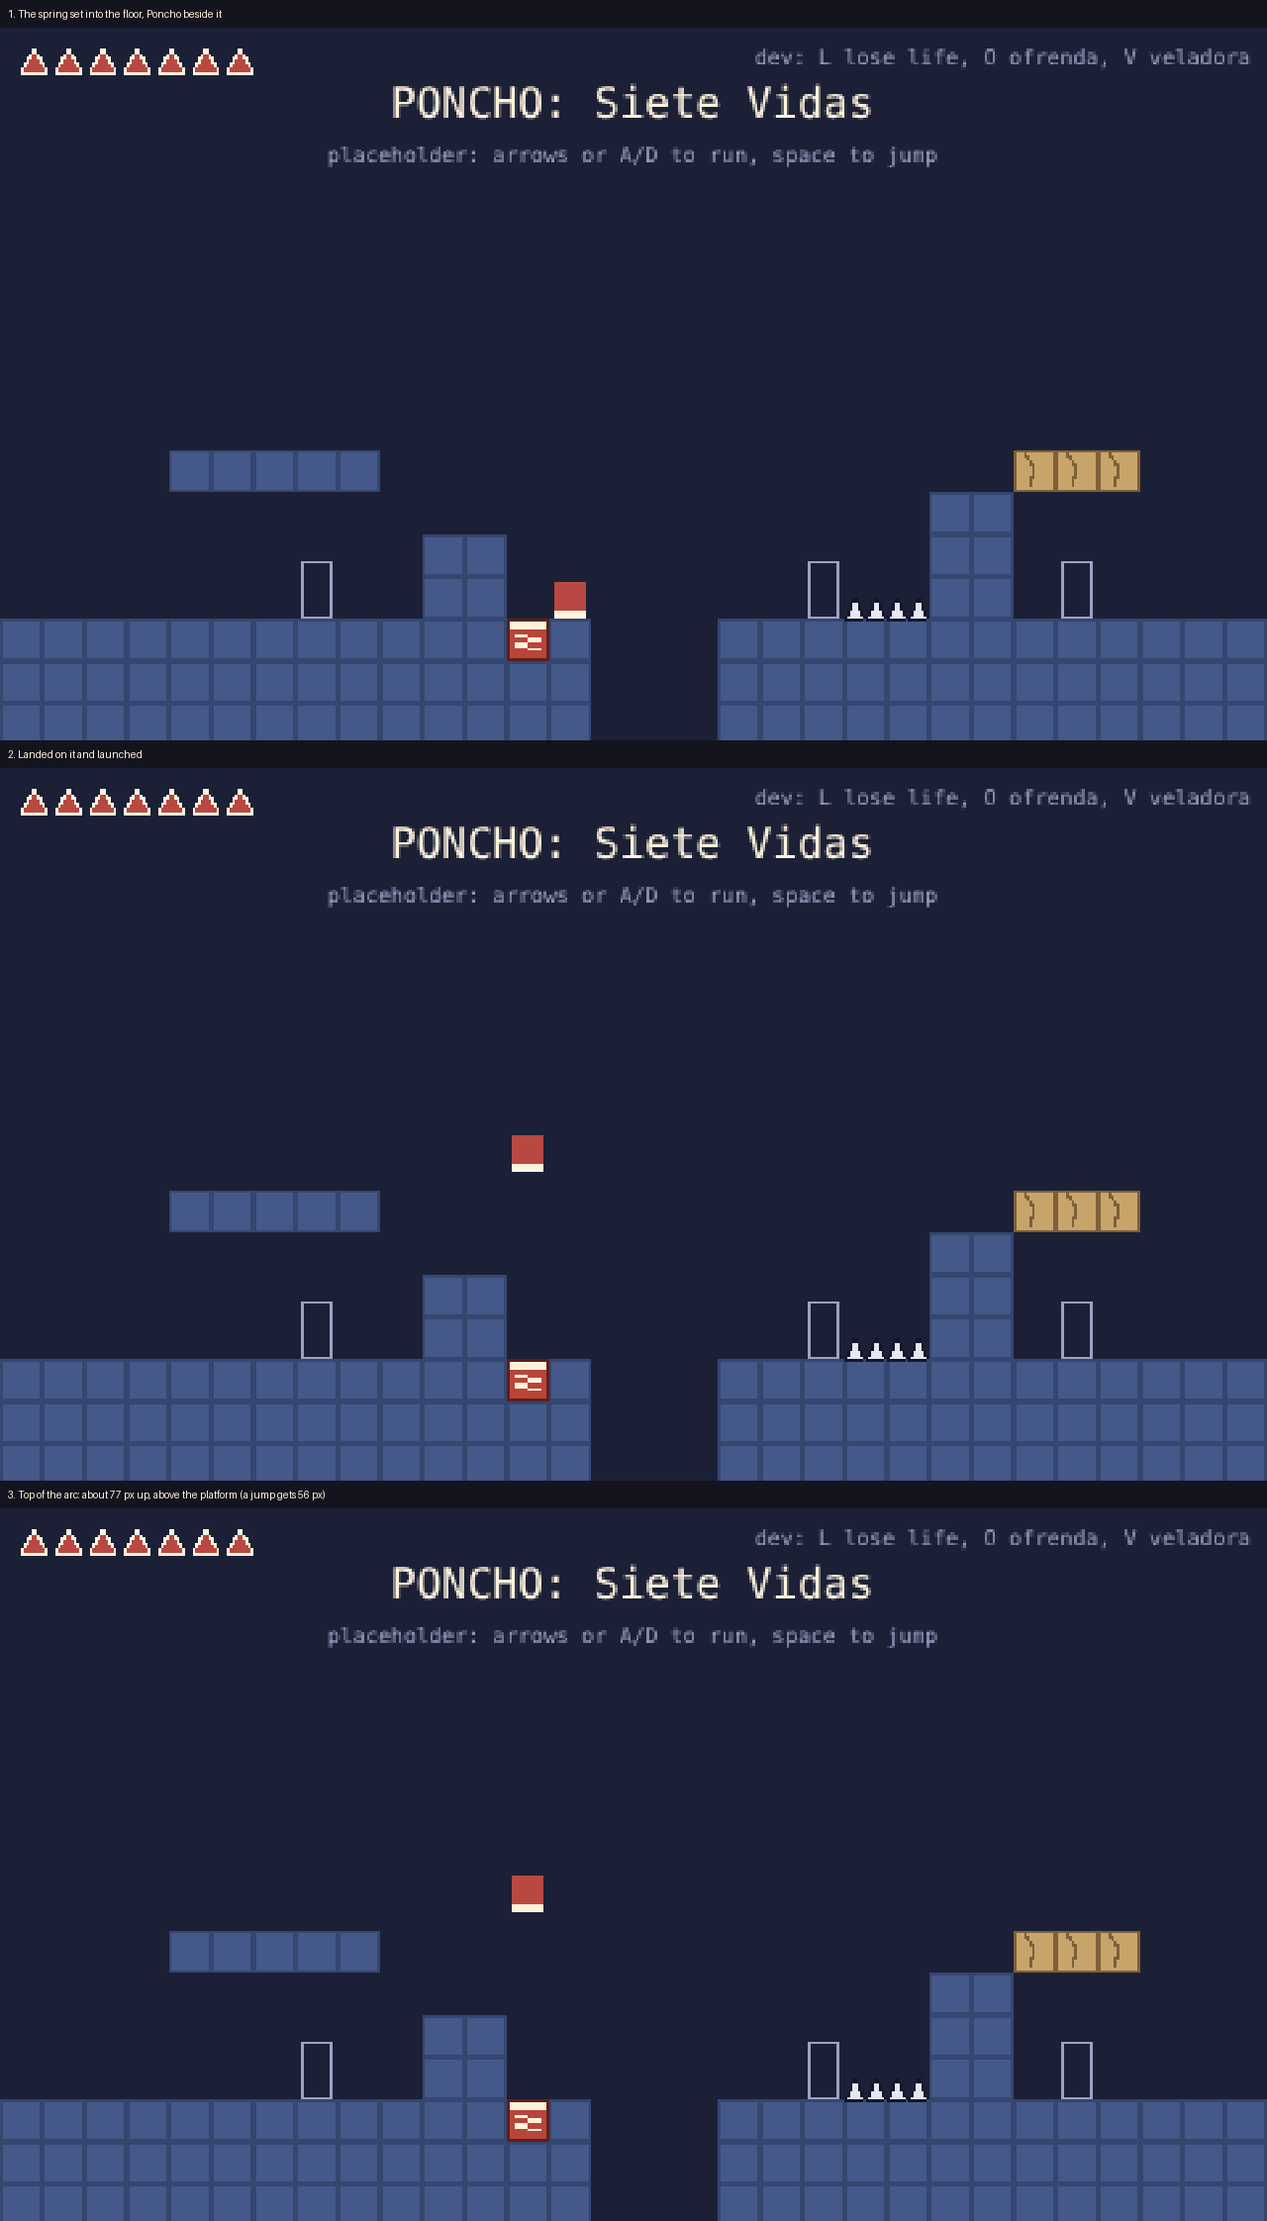
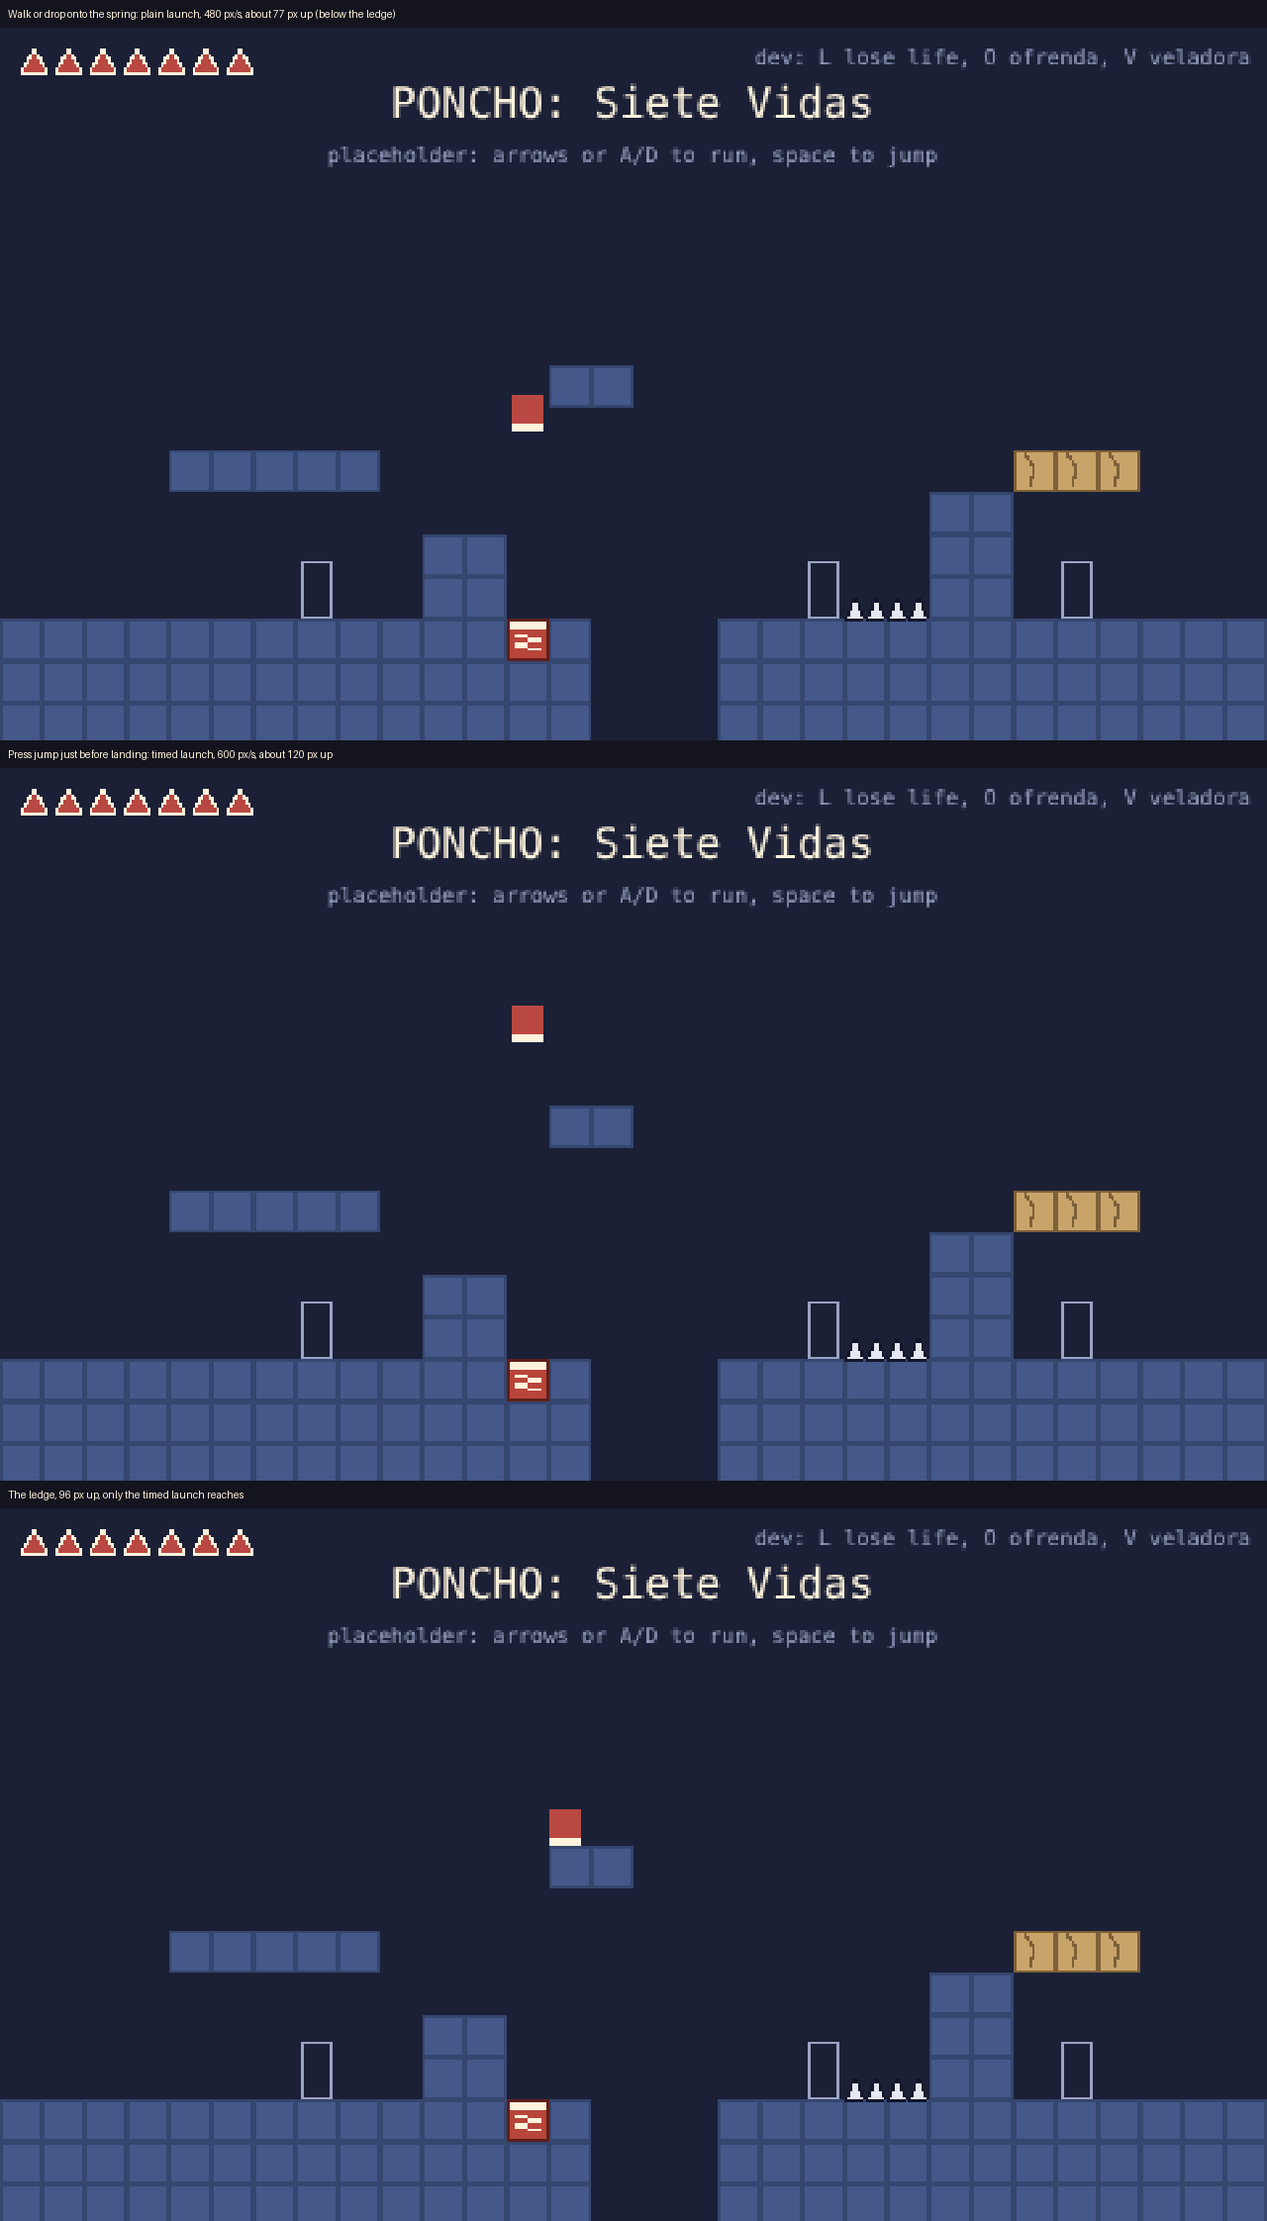
feat(GDD-WLD-05): a timed press before landing gives the spring a higher launch
Claude-Session: https://claude.ai/code/session_01UR7WLYurCgCbzU9XqgV3bo

diff --git a/src/sim/spring.test.ts b/src/sim/spring.test.ts
@@ -4,6 +4,7 @@ import { spawn, step, type PlayerInput, type PlayerState } from './movement';
 import { bounce, withSprings, type Spring } from './spring';
 import { startRun, stepRun, type Level, type RunState } from './run';
 import { parseTiles } from './tilemap';
+import { SANDBOX_CRUMBLES, SANDBOX_OFRENDAS, SANDBOX_ROWS, SANDBOX_SPAWN, SANDBOX_SPIKES, SANDBOX_SPRINGS } from '../levels/sandbox';
 
 const idle: PlayerInput = { move: 0, jumpHeld: false };
 const right: PlayerInput = { move: 1, jumpHeld: false };
@@ -23,6 +24,8 @@ function play(r: RunState, steps: number, input: (i: number) => PlayerInput = ()
   }
   return { states, rise: 8 * TILE - Math.min(...states.map((s) => s.player.y)) };
 }
+/** Poncho dropped onto the spring from 30 px up. */
+const drop = (): RunState => ({ ...startRun(level), player: { ...spawn(56, 8 * TILE - 30), grounded: false } });
 const launched = (states: RunState[]) => states.find((s) => s.player.vy === -SPRING.velocity);
 
 describe('GDD-WLD-05 spring', () => {
@@ -77,14 +80,49 @@ describe('GDD-WLD-05 spring', () => {
     expect(released.rise).toBeCloseTo(kept.rise, 5);
   });
 
-  it('holding jump, or pressing it just before landing, does not change the height', () => {
+  it('holding jump does not change the height: only a press counts', () => {
     const plain = play({ ...startRun(level), player: onSpring }, 120).rise;
     const held = play({ ...startRun(level), player: onSpring }, 120, () => ({ move: 0, jumpHeld: true })).rise;
     expect(held).toBeCloseTo(plain, 5);
-    // Dropped from 10 px up with jump pressed 2 steps before the landing, and held.
-    const dropped = play({ ...startRun(level), player: { ...spawn(56, 8 * TILE - 10), grounded: false } }, 120, (i) => ({ move: 0, jumpHeld: i >= 1 })).rise;
-    expect(dropped).toBeGreaterThan(75);
-    expect(dropped).toBeLessThan(90);
+  });
+
+  it('walking onto it gives the plain 480 launch', () => {
+    const { states } = play(startRun(level), 60, () => ({ move: 1, jumpHeld: false }));
+    expect(launched(states)).toBeDefined();
+  });
+
+  describe('a jump pressed just before landing (a timed press)', () => {
+    // `landing` is the step the launch happens on when dropped from 30 px up, found without any press.
+    const landing = play(drop(), 60).states.findIndex((s) => s.player.vy < -400);
+    /** The launch speed with one press on step `at`, and the jump held from then until the end. */
+    const launchSpeed = (at: number, hold = true): number => {
+      const { states } = play(drop(), 60, (i) => ({ move: 0, jumpHeld: hold ? i >= at : i === at }));
+      return -states[landing]!.player.vy;
+    };
+
+    it('launches at 600 px/s, from 0.1 s (6 steps) before the landing up to the landing step itself', () => {
+      expect(landing).toBeGreaterThan(8); // the fall is long enough to tell a press from holding
+      expect(SPRING.boostVelocity).toBe(600);
+      for (let back = 0; back <= 5; back++) expect(launchSpeed(landing - back)).toBe(600);
+    });
+
+    it('a press 6 or more steps early, or after the landing, gives the plain 480', () => {
+      expect(launchSpeed(landing - 6)).toBe(480);
+      expect(launchSpeed(0)).toBe(480);
+      expect(launchSpeed(landing + 1)).toBe(480);
+    });
+
+    it('throws him to about 120 px up, 40 px more than the plain launch', () => {
+      const { rise } = play(drop(), 160, (i) => ({ move: 0, jumpHeld: i >= landing - 2 }));
+      expect(rise).toBeGreaterThan(118); // 600 squared over 2 x 1500 = 120 px, a little more with the slow hang at the top
+      expect(rise).toBeLessThan(135);
+    });
+
+    it('letting go of jump does not cut the boosted launch', () => {
+      const { states, rise } = play(drop(), 160, (i) => ({ move: 0, jumpHeld: i === landing - 2 || i === landing - 1 }));
+      expect(states[landing + 1]!.player.vy).toBeLessThan(-550);
+      expect(rise).toBeGreaterThan(118);
+    });
   });
 
   it('a jump pressed the step after the launch does not replace it with a weaker 410 px/s jump', () => {
@@ -101,5 +139,40 @@ describe('GDD-WLD-05 spring', () => {
     p = step(p, { move: 0, jumpHeld: true }, level.world);
     const v = p.vy;
     expect(step(p, idle, level.world).vy).toBeCloseTo(v * 0.4 + 1500 / 60, 5); // cut to 0.4 on release (GDD-MOV-02), then rising gravity
+  });
+});
+
+describe('GDD-WLD-05 the sandbox spring and its ledge', () => {
+  // The ledge (tile columns 13 and 14, row 8) has its top at y = 128, 96 px above the floor next to the spring.
+  const sandbox: Level = {
+    world: parseTiles(SANDBOX_ROWS),
+    spawn: SANDBOX_SPAWN,
+    ofrendas: SANDBOX_OFRENDAS,
+    spikes: SANDBOX_SPIKES,
+    crumbles: SANDBOX_CRUMBLES,
+    springs: SANDBOX_SPRINGS,
+  };
+  /**
+   * Drops onto the spring from 34 px up (he lands on step 11), optionally pressing jump on step 8, which is inside the
+   * 0.1 s before the landing, and drifting right once he is above the ledge. Whether he ever stands on the ledge.
+   */
+  const reachesLedge = (timed: boolean): boolean => {
+    let r: RunState = { ...startRun(sandbox), player: { ...spawn(200, 190), grounded: false } };
+    let up = false;
+    for (let i = 0; i < 300; i++) {
+      up ||= r.player.vy <= -400;
+      const drift = up && r.player.y < 128 ? 1 : 0;
+      r = stepRun(r, { move: drift, jumpHeld: timed && i >= 8 && !up }, sandbox);
+      if (r.player.grounded && r.player.y === 128) return true;
+    }
+    return false;
+  };
+
+  it('a timed press lands on the ledge, 96 px up', () => {
+    expect(reachesLedge(true)).toBe(true);
+  });
+
+  it('the plain launch falls short of it', () => {
+    expect(reachesLedge(false)).toBe(false); // it keeps bouncing on the spring, 77 px up, 19 px short
   });
 });

diff --git a/e2e/shots/spring.spec.ts b/e2e/shots/spring.spec.ts
@@ -7,7 +7,7 @@ const shot = async (page: Page, info: TestInfo, name: string) => {
   await page.screenshot({ path: `shots/${name}-${info.project.name.replace('shots-', '')}.png` });
 };
 
-test('GDD-WLD-05 spring: beside it, and at the top of the launch', async ({ page }, info) => {
+test('GDD-WLD-05 spring: beside it, plain launch, timed launch, and on the ledge', async ({ page }, info) => {
   await boot(page);
   await page.waitForFunction(() => window.__PONCHO__!.ticks() > 10);
   await page.evaluate(() => {
@@ -16,11 +16,25 @@ test('GDD-WLD-05 spring: beside it, and at the top of the launch', async ({ page
     window.__PONCHO__!.step(2);
   });
   await shot(page, info, 'spring-beside');
+  // Dropped from 34 px up he lands on step 11. No press: the plain launch, to the top of its arc.
   await page.evaluate(() => {
     window.__PONCHO__!.teleport(200, 190);
-    window.__PONCHO__!.step(26); // landed, launched and rising
+    window.__PONCHO__!.step(38);
   });
-  await shot(page, info, 'spring-rising');
-  await page.evaluate(() => window.__PONCHO__!.step(12)); // the top of the arc
-  await shot(page, info, 'spring-top');
+  await shot(page, info, 'spring-plain-top');
+  // A press on step 8, 3 steps before the landing: the timed launch, to the top of a higher arc.
+  await page.evaluate(() => {
+    const g = window.__PONCHO__!;
+    g.teleport(200, 190);
+    g.step(8);
+    g.step(1, { move: 0, jumpHeld: true });
+    g.step(26, { move: 0, jumpHeld: true });
+  });
+  await shot(page, info, 'spring-timed-top');
+  // Then drift right above the ledge and land on it.
+  await page.evaluate(() => {
+    const g = window.__PONCHO__!;
+    for (let i = 0; i < 120 && !(g.state().grounded && g.state().y === 128); i++) g.step(1, { move: g.state().y < 128 ? 1 : 0, jumpHeld: false });
+  });
+  await shot(page, info, 'spring-ledge');
 });

diff --git a/e2e/spring.spec.ts b/e2e/spring.spec.ts
@@ -21,3 +21,26 @@ test('GDD-WLD-05 dropping onto the spring launches Poncho', async ({ page }) => 
   await page.waitForFunction(() => window.__PONCHO__!.state().vy < -400);
   expect(await page.evaluate(() => window.__PONCHO__!.lives())).toBe(7);
 });
+
+test('GDD-WLD-05 a jump pressed just before landing launches at 600 px/s, holding jump does not', async ({ page }) => {
+  await boot(page);
+  await page.waitForFunction(() => window.__PONCHO__!.ticks() > 10);
+  /** Drops onto the spring from 34 px up with one press on step `press` (or none, holding jump from step 0), and returns the launch speed. */
+  const launchSpeed = (press: number | 'held') =>
+    page.evaluate((p) => {
+      const g = window.__PONCHO__!;
+      g.pause(true);
+      g.teleport(200, 190);
+      let prevHeld = false;
+      for (let i = 0; i < 40; i++) {
+        const held = p === 'held' ? true : i === p;
+        g.step(1, { move: 0, jumpHeld: held && !(prevHeld && p !== 'held') });
+        prevHeld = held;
+        if (g.state().vy < -400) return g.state().vy;
+      }
+      return 0;
+    }, press);
+  expect(await launchSpeed('held')).toBe(-480);
+  expect(await launchSpeed(8)).toBe(-600); // the landing is on step 11, so this is 3 steps early
+  expect(await launchSpeed(2)).toBe(-480); // 9 steps early is too early
+});

diff --git a/src/sim/spring.ts b/src/sim/spring.ts
@@ -19,10 +19,12 @@ export function withSprings(world: TileGrid, springs: readonly Spring[]): TileGr
 
 /**
  * Poncho right after a step: if he stands on a spring he is launched at once, so he is never grounded on one for a
- * whole step. Releasing jump does not cut the launch short, and a held jump does not make it higher: it is always
- * SPRING.velocity.
+ * whole step. The launch is SPRING.velocity, or SPRING.boostVelocity if he pressed jump in the 0.1 s up to and
+ * including this step (the jump buffer, GDD-MOV-03). Only a press counts: holding jump from earlier does not, and
+ * walking onto the spring gives the plain launch. Releasing jump does not cut either launch short.
  */
 export function bounce(player: PlayerState, springs: readonly Spring[]): PlayerState {
   if (!springs.some((s) => standsOn(player, s))) return player;
-  return { ...player, vy: -SPRING.velocity, grounded: false, coyote: 0, jumpBuffer: 0, bounced: true };
+  const timed = player.jumpBuffer > 0;
+  return { ...player, vy: -(timed ? SPRING.boostVelocity : SPRING.velocity), grounded: false, coyote: 0, jumpBuffer: 0, bounced: true };
 }

diff --git a/src/levels/sandbox.ts b/src/levels/sandbox.ts
@@ -18,7 +18,7 @@ export const SANDBOX_ROWS: readonly string[] = [
   '..............................',
   '..............................',
   '..............................',
-  '..............................',
+  '.............##...............',
   '..............................',
   '....#####.....................',
   '......................##......',
@@ -47,3 +47,6 @@ export const SANDBOX_CRUMBLES: readonly Crumble[] = [24, 25, 26].map((col) => ({
 
 /** GDD-WLD-05: a spring set into the floor at tile column 12, flush with the floor, between the 2-tile wall and the pit, clear of the touch buttons. */
 export const SANDBOX_SPRINGS: readonly Spring[] = [{ col: 12, row: 14 }];
+
+// GDD-WLD-05: the ledge at tile columns 13 and 14, row 8 (top y = 128), is 96 px above the floor: a plain spring launch
+// (about 77 px) falls short of it and a timed one (about 120 px) clears it.

diff --git a/src/config/tuning.ts b/src/config/tuning.ts
@@ -91,5 +91,8 @@ export const FLIP = { steps: Math.round(0.35 * TICK_HZ), height: 48, turns: 1 } 
 /** GDD-WLD-05: a crumbling tile gives 0.5 s of warning from the step Poncho lands on it, then is gone. */
 export const CRUMBLE = { warningSteps: Math.round(0.5 * TICK_HZ) } as const;
 
-/** GDD-WLD-05: a spring launches Poncho upwards at this speed (a jump takes off at 410). */
-export const SPRING = { velocity: 480 } as const;
+/**
+ * GDD-WLD-05: a spring launches Poncho upwards at `velocity` (a jump takes off at 410). A jump pressed in the 0.1 s
+ * before he lands on it launches him at `boostVelocity` instead.
+ */
+export const SPRING = { velocity: 480, boostVelocity: 600 } as const;

diff --git a/docs/GDD.md b/docs/GDD.md
@@ -1,6 +1,6 @@
 # PONCHO: Siete Vidas — Game Design Document
 
-Version: 0.4.18
+Version: 0.4.19
 
 This document is the anchor for every feature. Rules:
 
@@ -12,6 +12,7 @@ This document is the anchor for every feature. Rules:
 
 ## Changelog
 
+- **0.4.19** (2026-10-21) GDD-WLD-05: a spring gives a higher launch for a jump pressed just before landing (the user's rule: a timed press only); the sandbox gets a ledge only that launch reaches.
 - **0.4.18** (2026-10-21) GDD-WLD-05: springs are built; how they trigger and what a held or released jump does are written out as proposals.
 - **0.4.17** (2026-10-21) GDD-WLD-05: crumbling platforms are built; how they trigger, how long they last and when they come back are written out as proposals.
 - **0.4.16** (2026-10-21) GDD-WLD-05: two spike edge cases are written out (invulnerability ending on a spike, a spike hit and an ofrenda in the same step). No behaviour changed.
@@ -405,7 +406,7 @@ Core set: spikes (cactus, obsidian), pits, crumbling platforms (0.5 s warning), 
 
 - **Spikes (built, details Proposed):** a spike stands in one tile and hurts through the lower half of it (16 px wide, 8 px tall), so a jump that clears the points by a hair is safe. Touching it with the hurtbox (GDD-MOV-06) from any side costs one life, like a pit: the wait, the flip and 2.0 s of invulnerability follow (GDD-LIFE-02). Unlike a pit, a spike does not hurt while Poncho is invulnerable (GDD-CMB-03). Invulnerability only skips the hit, it does not move Poncho: if he is still on a spike when the 2.0 s end, he loses a life on the next step. If a spike hit and an ofrenda touch happen in the same step, the hit wins and the ofrenda is not activated. No knockback yet: it only matters once a hit can leave Poncho alive (Taco or Fuego state, GDD-PWR-01). The sandbox level has two spikes between the second ofrenda and the 3-tile wall. Cactus and obsidian art, and the "not stompable" marking for spike enemies (GDD-CMB-01), come later. `SPIKE` in `src/config/tuning.ts`, `src/sim/hazards.ts`.
 - **Crumbling tiles (built, details Proposed):** one-tile ledges that are solid like a floor. A tile starts to crumble when Poncho lands on it: his body box over its column and his feet on its top. A jump up from below, or walking into its side, does nothing. The warning lasts 0.5 s (30 steps) from the step he lands, shown by the tile shaking sideways and flashing pale in turn (movement and colour, GDD-UI-03). Then it is gone: Poncho falls, with the usual 0.1 s of coyote time to still jump (GDD-MOV-03). The countdown cannot be stopped: if he walks off, the tile still goes. Each tile has its own timer, so standing on the join of two starts both. A gone tile stays gone until Poncho loses a life, and then every tile is whole again when he respawns (GDD-LIFE-02). The sandbox level has three at tile columns 24 to 26, a jump up from the 3-tile wall. Sand-coloured placeholder art with a crack. `CRUMBLE` in `src/config/tuning.ts`, `src/sim/crumble.ts`.
-- **Springs (built, details Proposed):** a one-tile block, solid like a floor and set flush into it. Standing on its top, by landing on it or by walking onto it, throws Poncho up at 480 px/s the same step: about 77 px, clearly above a jump (410 px/s, 56 px). The launch is fixed: holding jump does not make it higher, releasing jump does not cut it short, and a jump pressed in the next steps does not replace it with the weaker 410 px/s jump. Touching it from the side or below does nothing. Red-and-cream placeholder art with a coil. The sandbox level has one in the floor between the 2-tile wall and the pit, clear of the touch buttons. `SPRING` in `src/config/tuning.ts`, `src/sim/spring.ts`.
+- **Springs (built, details Proposed):** a one-tile block, solid like a floor and set flush into it. Standing on its top, by landing on it or by walking onto it, throws Poncho up the same step. The plain launch is 480 px/s, about 77 px up, clearly above a jump (410 px/s, 56 px). A **timed press** gives a higher one: if Poncho pressed jump in the 0.1 s (6 steps) before he lands, counting the landing step itself, the launch is 600 px/s, about 120 px (the user's rule, 2026-10-21: a timed press only, holding jump does not count; the 600 is a proposal). Walking onto the spring, or holding jump from earlier, gives the plain launch. Either launch is fixed once it starts: releasing jump does not cut it short, and a jump pressed in the next steps does not replace it with the weaker 410 px/s jump. Touching the spring from the side or below does nothing. Red-and-cream placeholder art with a coil. The sandbox level has one in the floor between the 2-tile wall and the pit, clear of the touch buttons, and a ledge 96 px above the floor that only the timed launch reaches. `SPRING` in `src/config/tuning.ts`, `src/sim/spring.ts`.
 - **Ofrenda:** one tile wide and two tiles tall (16 x 32 px), standing on the floor. It is activated when Poncho's body box (GDD-MOV-06) overlaps it; boxes that only share an edge do not touch. It does not need a button press and works in the air, so a jump through it counts.
 - Placeholder look until real art (GDD-ART-01): an outlined frame when unused, filled with a flame on top once used, so the two differ by shape and not only by colour (GDD-UI-03). The sandbox level has three, at about 25%, 65% and 85% of its width; the 55% spot of GDD-WLD-03 is in its pit.
 
